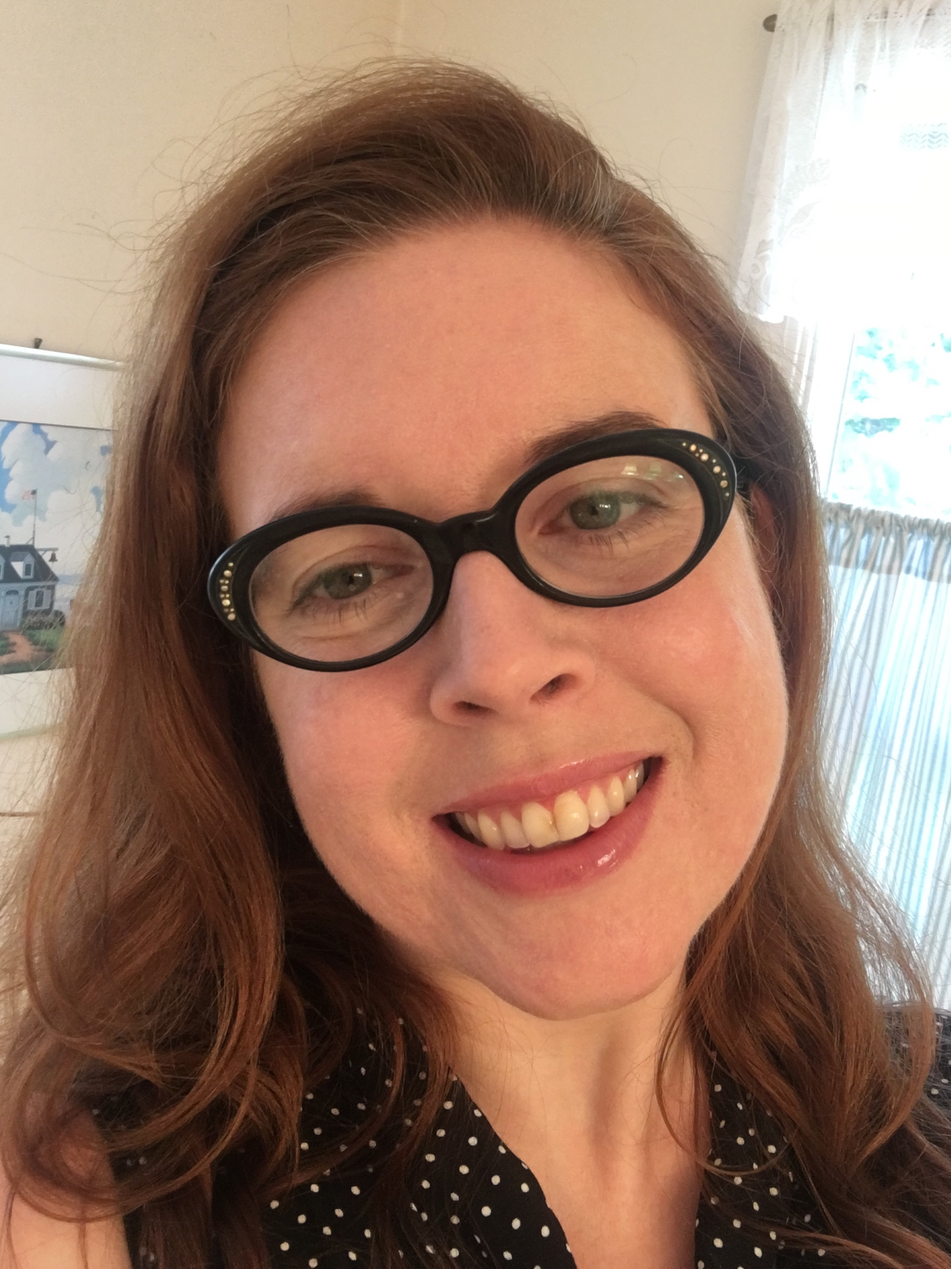
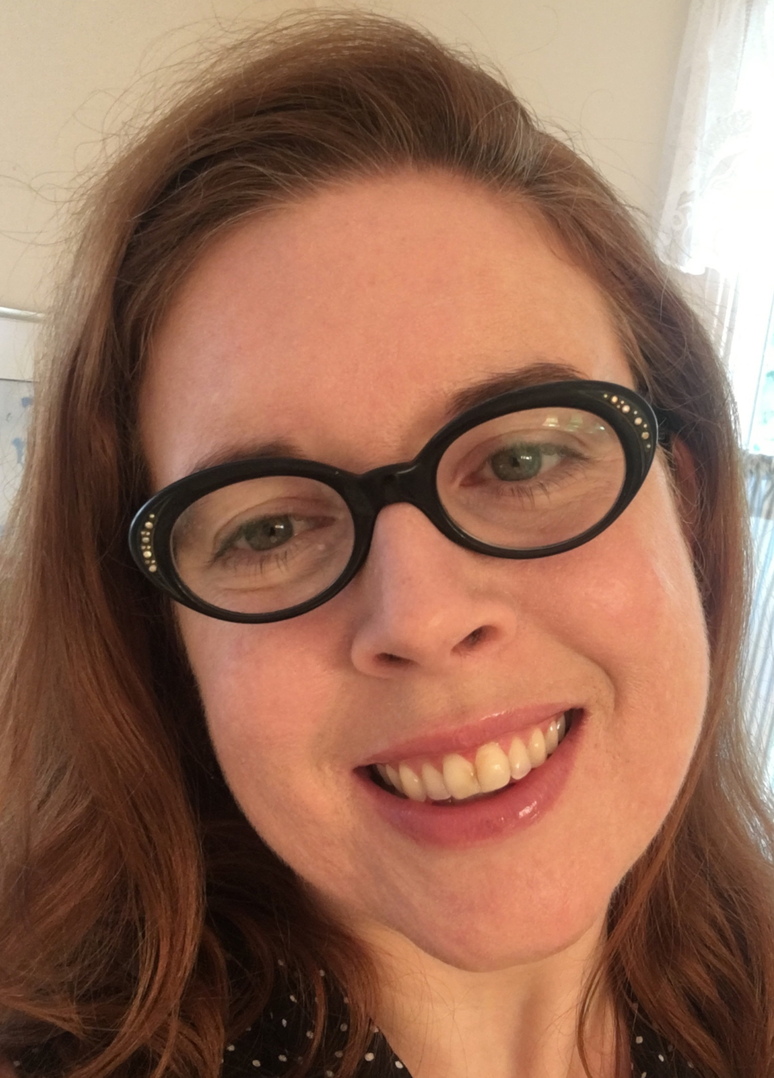
added js, updated css & images

diff --git a/index.html b/index.html
@@ -3,9 +3,12 @@
 
 <head>
   <link rel="stylesheet" href="css/main.css">
+  <script type="text/javascript" src="main.js"></script>
   <title>Brigid Timlin Portfolio Site</title>
-  <link href="website-profile-pic-2">
+  <link href="website-profile-pic">
+  <link href="fun-photo">
   <link href="https://fonts.googleapis.com/css?family=Montserrat" rel="stylesheet">
+  <link href="https://fonts.googleapis.com/css?family=Istok+Web" rel="stylesheet">
   <link rel="stylesheet" href="https://use.fontawesome.com/releases/v5.7.2/css/all.css" integrity="sha384-fnmOCqbTlWIlj8LyTjo7mOUStjsKC4pOpQbqyi7RrhN7udi9RwhKkMHpvLbHG9Sr" crossorigin="anonymous">
 </head>
 
@@ -19,16 +22,14 @@
   </header>
 <div class="section" id="one">
   <h1 id="home">Brigid <br> Timlin</h1>
-  <p>I'm an education researcher who is learning to code.<br>I love digging into data and I love telling stories.
+  <p id="blurb">I'm an education researcher who is learning to code.<br>I love digging into data and I love telling stories.</p>
 </div>
 
 <div class="section" id="two">
   <h2 class="headings" id="hello">Hello</h2>
-  <p>a bio of me. a bio of me. a bio of me. a bio of me. a bio of me. a bio of me. a bio of me. a bio of me. a bio of me. a bio of me. a bio of me. a bio of me. a bio of me. a bio of me. a bio of me. a bio of me. a bio of me. a bio of me. a bio of me. a
-    bio of me. a bio of me. a bio of me. a bio of me. a bio of me. a bio of me. a bio of me. a bio of me. a bio of me. a bio of me. a bio of me. a bio of me. a bio of me. a bio of me. a bio of me. a bio of me. a bio of me. a bio of me. a bio of me. a
-    bio of me. a bio of me. a bio of me. a bio of me. a bio of me. a bio of me. a bio of me. </p>
-    <img src="img/website-profile-pic-2.jpg" alt="Brigid profile pic">
-  </div>
+  <p>Hi, I'm Brigid. I'm a <span class="text">researcher</span> and evaluator at the New York City Department of Education where I study the impact of a program on educators and thier instructional practices. I came to <span class="text">education</span> research via book publishing. Between careers I took a break from the paid workforce to be with my <span class="text">family</span>. Education research has been a wonderful place for me to combine my love of reading and <span class="text">stories</span> with my commitment to improving education systems for every student. I have the opportunity to work with qualitative <span class="text">data</span> daily; this site is a place for me to practice and share data analysis, visualization, and data storytelling <span class="text">projects</span>. Thank you for stopping by!</p>
+  <div><img id="my-img" src="img/website-profile-pic.jpg" alt="Brigid profile pic"onmouseover="hover(this);" onmouseout="unhover(this);" /></div>
+</div>
 
 <div class="section" id="three">
   <h2 class="headings" id="projects">Projects</h2>
@@ -39,7 +40,7 @@
     <a href>
       <!--link to project-->
     </a>
-    <p>Do any of the items on the NYCDOE family survey predict school impact? </p>
+    <p id="description">Do any of the items on the NYCDOE family survey predict school impact? </p>
   </div>
 
   <div id="card-two">
@@ -49,7 +50,7 @@
     <a href>
       <!--link to project-->
     </a>
-    <p>How much instructional time is lost on late or stalled school buses?
+    <p id="description">How much instructional time is lost on late or stalled school buses?
       <!--project description-->
     </p>
   </div>
@@ -58,17 +59,16 @@
 <div class="section" id="four">
   <h2 class="headings" id="contact">Contact</h2>
   <div id="links">
-    <!--social media links-->
-    <a href="https://twitter.com/brigidtimlin" target="_blank"> <i class="fab fa-twitter"></i></a>
+    <a href="https://twitter.com/brigidtimlin" target="_blank"> <i id="twitter" class="fab fa-twitter"></i></a>
 
-    <a href="https://linkedin.com/in/brigidtimlin" target="_blank"> <i class="fab fa-linkedin-in"></i></a>
+    <a href="https://linkedin.com/in/brigidtimlin" target="_blank"> <i id="linkedin" class="fab fa-linkedin-in"></i></a>
 
-    <a href="https://github.com/brigidtimlin" target="_blank"> <i class="fab fa-github"></i></a>
+    <a href="https://github.com/brigidtimlin" target="_blank"> <i id="github" class="fab fa-github"></i></a>
 
-    <a href="https://codepen.io/btimlin" target="_blank"> <i class="fab fa-codepen"></i></a>
+    <a href="https://codepen.io/btimlin" target="_blank"> <i id="codepen" class="fab fa-codepen"></i></a>
 
     <!--need to figure out which email-->
-    <!--<a href="https://twitter.com/brigidtimlin" target="_blank">--><i class="fas fa-at"></i>
+    <!--<a href="https://twitter.com/brigidtimlin" target="_blank">--><i id="email" class="fas fa-at" style="color:rgb(0, 128, 128);"></i>
     <!--</a>-->
   </div>
 </div>

diff --git a/CSS/main.css b/CSS/main.css
@@ -1,16 +1,18 @@
 body{
   margin: 0;
-  padding: 0;
   font-family: 'Montserrat', sans-serif;
 }
 #navbar {
   width: 100%;
   height: 32px;
   overflow: hidden;
+  border: 2px white;
+  box-shadow: 2px 2px 4px #787878;
   background-color: white;
   position: fixed;
   top: 0;
   width: 100%;
+  z-index: 9999;
 }
 
 ul {
@@ -33,33 +35,43 @@ li {
   
   li a:hover {
     background-color:rgb(255, 165, 0);
+    border-radius: 15px;
   }
 
 .section {
-  /* settings for older browsers so divs will take up full screen*/
-  min-height: 100%;
-  width: 100%;
-  
   /*settings so divs will take up full screen*/
   min-height: 100vh;
   width: 100vw;
-  float: left;
-  clear: both;
-  padding: 10px
+  padding: 50px
 }
 h1{
   font-size: 130px;
   color: rgb(178, 18, 67);
+  text-shadow: 2px 2px 4px #787878;
   margin: auto;
 }
+
+#blurb {
+    font-family: 'Montserrat', sans-serif;
+    font-size: 25px;
+    margin: auto;
+    padding-bottom: 130px;
+    text-align: center;
+}
+
 p {
+  font-family: 'Istok Web', sans-serif;
   font-size: 25px;
   margin: auto;
   padding-bottom: 130px;
+  text-align: justify;
 }
+
 .headings {
   font-size: 45px;
-  color: rgb(128, 128, 128);
+}
+span {
+  text-decoration-color: rgb(255, 165, 0)
 }
 
 #one {
@@ -77,8 +89,13 @@ p {
     "hello hello"
     "bio picture";
 }
-#hello {grid-area: hello;}
+#hello {grid-area: hello;
+  color: rgb(178, 18, 67);
+}
 
+.text {
+  color: rgb(255, 165, 0);
+}
 img {
   justify-self: center;
   border-radius: 20%;
@@ -86,18 +103,10 @@ img {
   height: auto;
   opacity: 1.0;
   filter: alpha(opacity=100); /* For IE8 and earlier */
-  -webkit-filter: grayscale(100%); /* Safari 6.0 - 9.0 */
-  filter: grayscale(100%); 
-}
-img:hover {
-  justify-self: center;
-  border-radius: 20%;
-  width: 400px;
-  height: auto;
-  opacity: 1.0;
-  filter: alpha(opacity=100); /* For IE8 and earlier */
-  webkit-filter: saturate(1); /* Safari 6.0 - 9.0 */
   filter: saturate(1);
+}
+#projects {
+  color: rgb(255, 165, 0);
 }
 
 #three {
@@ -125,10 +134,12 @@ img:hover {
   margin: 20px;
   border-radius: 25px;
   padding: 20px;
+  box-shadow: 0 4px 8px 0 rgba(0, 0, 0, 0.2), 0 6px 20px 0 rgba(0, 0, 0, 0.19);
+
 }
 #card-two {
   justify-self: center;
-  background-color:rgb(255, 165, 0);
+  background-color:rgb(178, 18, 67);
   width: 60%;
   height: 70%;
   margin: 20px;
@@ -139,6 +150,10 @@ img:hover {
     text-align: center;
     font-size: 25px;
   }
+#description {
+  text-align: center;
+  padding-top: 80px;
+}
   #thumbnail-one {
     width: 200px;
     height: 100px;
@@ -154,9 +169,38 @@ img:hover {
     margin: auto; 
     display: block;
   }
+#contact {
+    color: rgb(178, 18, 67);
+}
 #links {
-    align-self: center;
-    font-size: 80px;
-    margin: auto;
-    color: gray; /*why won't the clickable links turn gray?*/
-  }
+  font-size: 50px;
+  display: flex;
+  flex-direction: row;
+  justify-content: space-between;
+  margin: 100px 10px;
+    margin-top: 100px;
+    margin-right: 10px;
+    margin-bottom: 100px;
+    margin-left: 10px;
+  text-align: center;
+  flex-wrap: wrap;
+}
+#twitter {
+  color: rgb(0, 128, 128);
+}
+
+#linkedin {
+  color: rgb(255, 165, 0);
+}
+
+#github {
+  color: rgb(178, 18, 67);
+}
+
+#codepen {
+  color: rgb(255, 165, 0);
+}
+
+#email {
+  color: rgb(0, 128, 128);
+}

diff --git a/main.js b/main.js
@@ -1,0 +1,8 @@
+console.log ("this is brigid");
+function hover(element) {
+    element.setAttribute('src', 'img/fun-photo.jpg');
+  }
+  
+  function unhover(element) {
+    element.setAttribute('src', 'img/website-profile-pic.jpg');
+  }

diff --git a/BusPage.html b/BusPage.html
@@ -1,0 +1,2 @@
+<!DOCTYPE html>
+<html>
